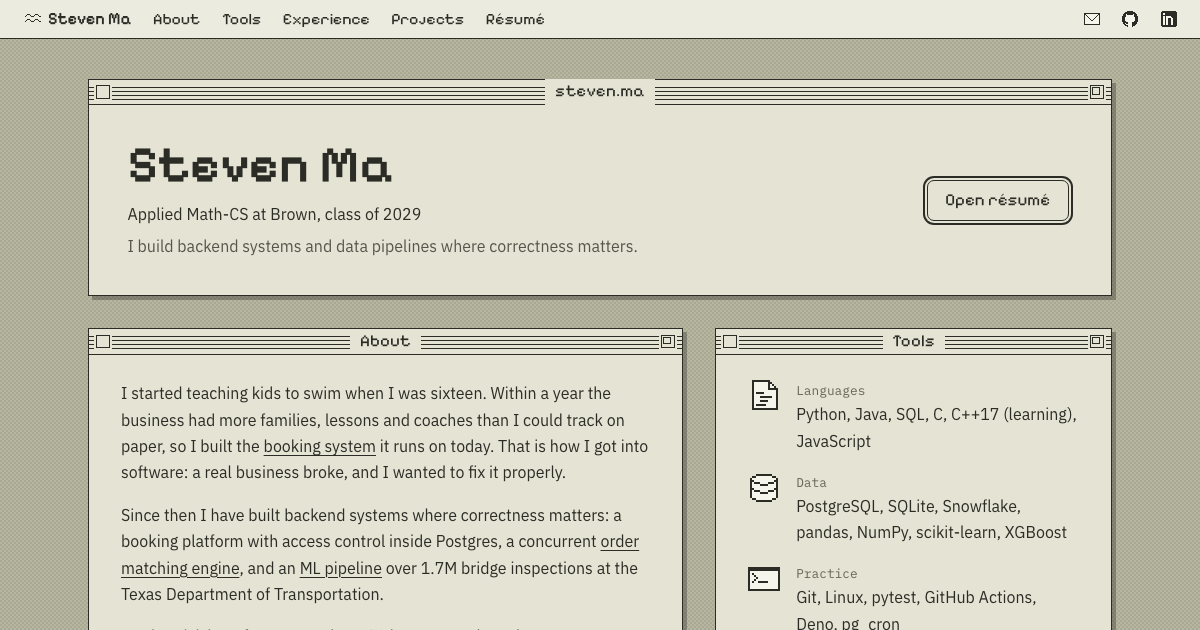
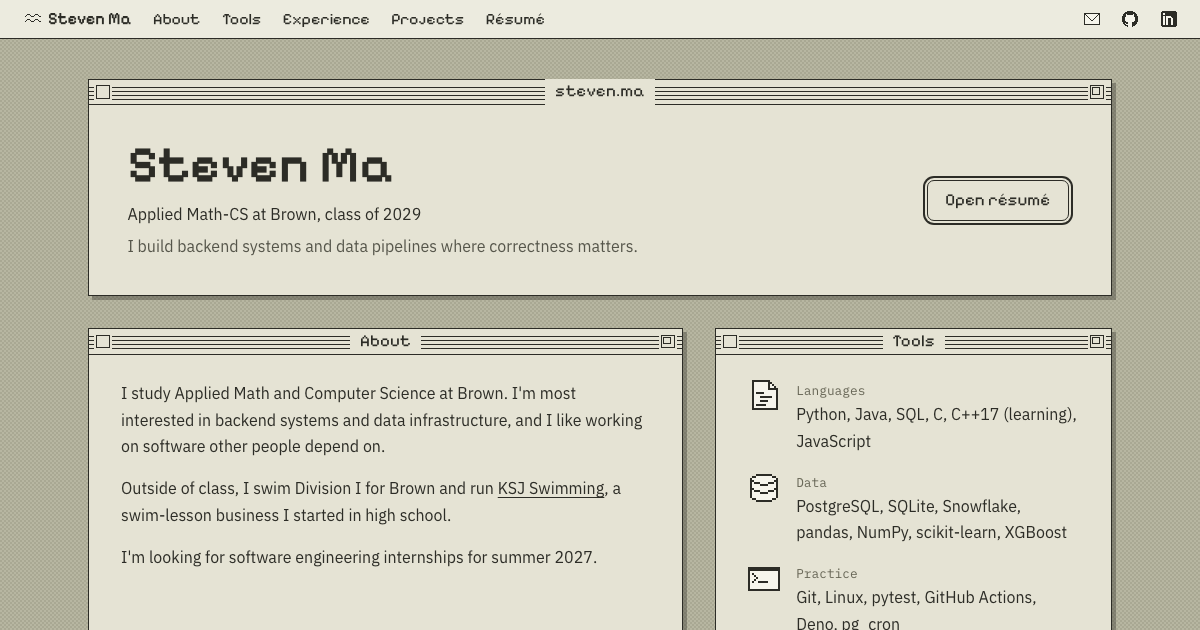
About: shorter, general bio

Changed region(s): [[0.0925, 0.6032, 0.555, 0.9651]]

diff --git a/index.html b/index.html
@@ -63,9 +63,9 @@
     <section id="about" class="window">
       <div class="titlebar"><span class="box" aria-hidden="true"></span><h2 class="title">About</h2><span class="box zoom" aria-hidden="true"></span></div>
       <div class="pane">
-        <p>I started teaching kids to swim when I was sixteen. Within a year the business had more families, lessons and coaches than I could track on paper, so I built the <a href="projects/ksj.html">booking system</a> it runs on today. That is how I got into software: a real business broke, and I wanted to fix it properly.</p>
-        <p>Since then I have built backend systems where correctness matters: a booking platform with access control inside Postgres, a concurrent <a href="projects/order-book.html">order matching engine</a>, and an <a href="work/txdot.html">ML pipeline</a> over 1.7M bridge inspections at the Texas Department of Transportation.</p>
-        <p>I swim Division I for Brown, about 20 hours a week, and I am an Associate in the Brown Derivatives Investment Group.</p>
+        <p>I study Applied Math and Computer Science at Brown. I'm most interested in backend systems and data infrastructure, and I like working on software other people depend on.</p>
+        <p>Outside of class, I swim Division I for Brown and run <a href="https://ksjswimming.com">KSJ Swimming</a>, a swim-lesson business I started in high school.</p>
+        <p>I'm looking for software engineering internships for summer 2027.</p>
       </div>
     </section>
 
